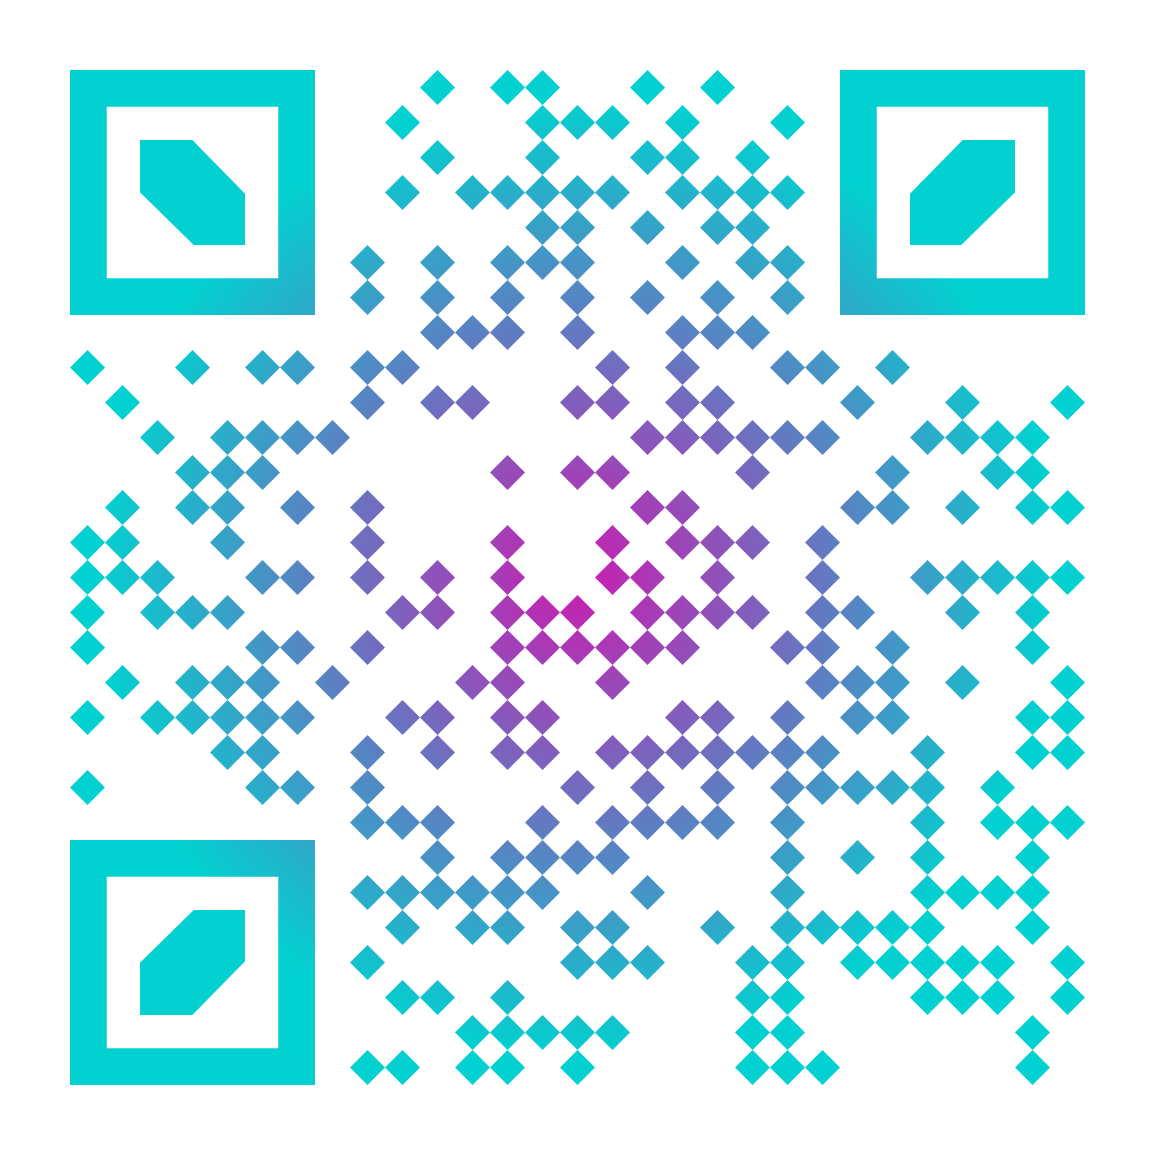
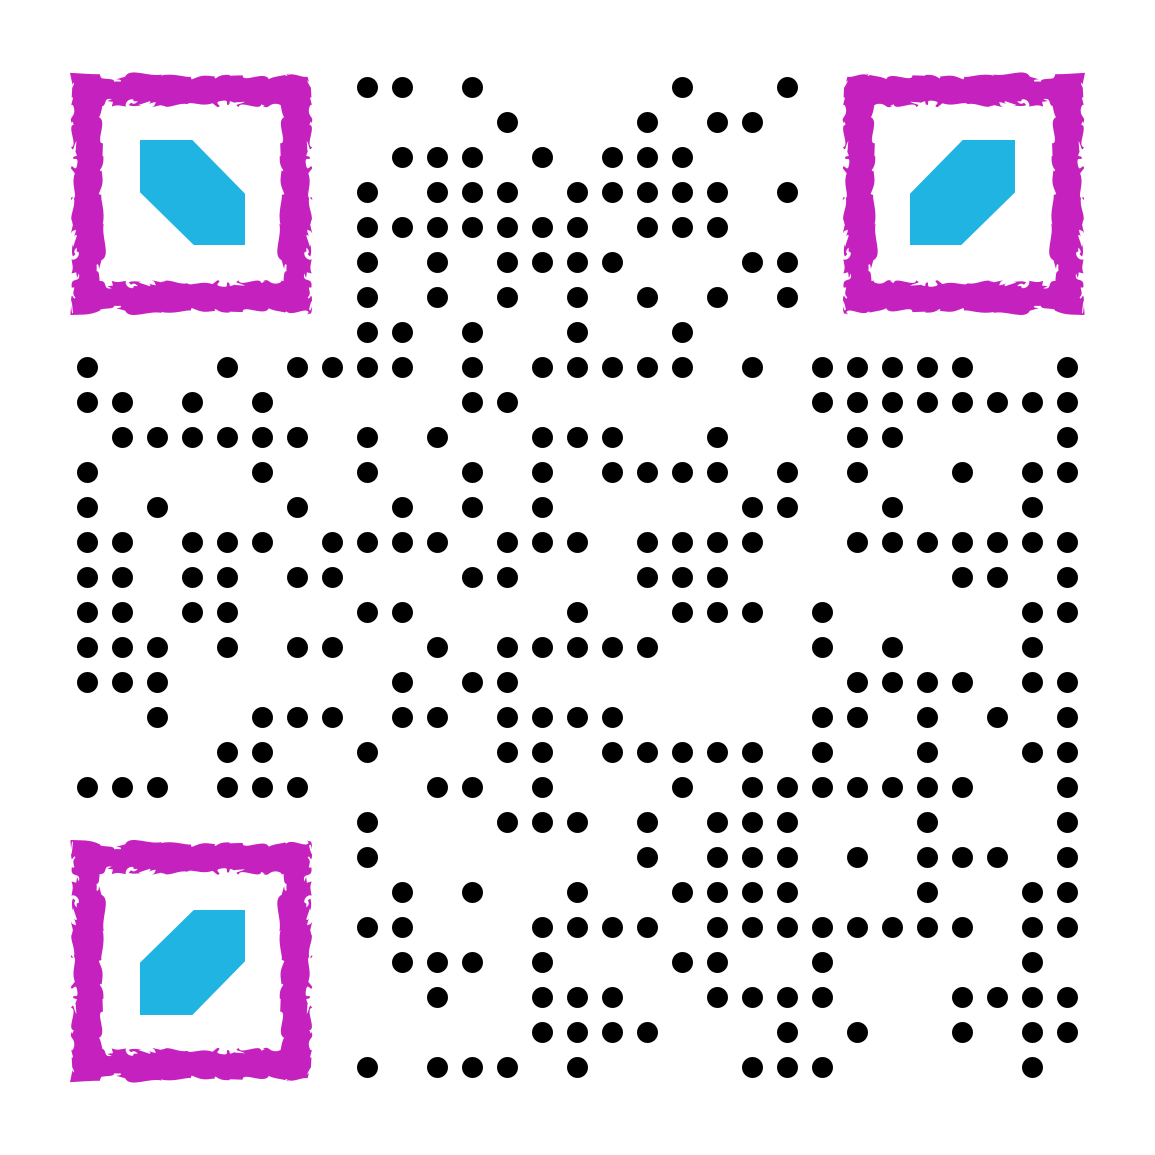
semiotics lectures up

Changed region(s): [[0.0623, 0.0623, 0.9662, 0.9662], [0.0623, 0.0623, 0.2805, 0.2805]]

diff --git a/FS1005_7.html b/FS1005_7.html
@@ -6,7 +6,7 @@
 
 	<title>Food Technology, Culture & Ethics 1</title>
 
-	<meta name="description" content="Protein Fractionation">
+	<meta name="description" content="Semiotics 2">
 	<meta name="author" content="Shane Crowley">
 
 	<meta name="apple-mobile-web-app-capable" content="yes" />
@@ -44,7 +44,7 @@
 		<div class="slides">
 			<section>
 				<section>
-				<h2>Semiotics:<br>Models</h1>
+				<h2>Semiotics:<br>Thinking about Culture Through Models</h1>
 				<h3><i>Dr Shane V Crowley</i></h3>
 				<p><small>Press <b>down</b> for controls and <b>right</b> to progress</small></p>	
 	
@@ -68,12 +68,12 @@
 			<section>
 				<p> Link to <b>video</b> below:
 					<br>
-					<a href="https://youtu.be/vh42SACRsc4">👉<i>https://youtu.be/vh42SACRsc4</i></a>
+					<a href="https://youtu.be/bzDpq8LwMSg">👉<i>https://youtu.be/bzDpq8LwMSg</i></a>
 				</p>
 
 				<img title="Scan me with your phone!" src="img/qr_fs1005_yt7.png" alt="if you don't see a QR code click the link" style="height: 340px; margin: 0 auto 4rem auto; background: transparent;" class="qr_code">
 					<br>
-				<a href="http://edibotopic.github.io/lecture-slides/FS1005_7.html?print-pdf" title="For your added conveniance">Click here for printable version (within reason)👈</a>
+				<!-- <a href="http://edibotopic.github.io/lecture-slides/FS1005_7.html?print-pdf" title="For your added conveniance">Click here for printable version (within reason)👈</a> -->
 			</section>
 
 			<section>
@@ -381,13 +381,13 @@
 				
 				<img data-src="img/presence_absence_paper.png" width="50%" height="50%" style="float: right;">
 
-				<small style="color: yellow;">Link: https://journals.sagepub.com/doi/full/10.1177/0743915618824332</small>
+				<small style="color: yellow;"><a href="https://journals.sagepub.com/doi/full/10.1177/0743915618824332">Link: interesting case of trying to understand the mental models of consumers</small>
 
 			</section>
 				
 				<section>
 					<h3><strong>Conclusion</strong> <br> </h3>
-					<p><i>Next week: Rhetoric</i></p>
+					<p><i>Next week: A simple model of food structure</i></p>
 
 					<a href="mailto:shane.crowley@ucc.ie">shane.crowley@ucc.ie</p>
 					<a href="mailto:shane.crowley@ucc.ie">
@@ -406,7 +406,7 @@
 			Reveal.configure({ pdfSeparateFragments: false });
 			Reveal.initialize({
 				// for gh set controls to true and toggle chalkboard.js to true also
-				controls: false,
+				controls: true,
 				progress: true,
 				history: true,
 				center: true,

diff --git a/FS1005_6.html b/FS1005_6.html
@@ -6,7 +6,7 @@
 
 	<title>Food Technology, Culture & Ethics 1</title>
 
-	<meta name="description" content="Protein Fractionation">
+	<meta name="description" content="Semiotics 1">
 	<meta name="author" content="Shane Crowley">
 
 	<meta name="apple-mobile-web-app-capable" content="yes" />
@@ -68,12 +68,12 @@
 			<section data-background-color="#000000">
 				<p> Link to <b>video</b> below:
 					<br>
-					<a href="https://youtu.be/GAZibmrLX_g">👉<i>https://youtu.be/pslQXeA5Rm8</i></a>
+					<a href="https://youtu.be/Y10JYPXjKrI">👉<i>https://youtu.be/Y10JYPXjKrI</i></a>
 				</p>
 
 				<img title="Scan me with your phone!" src="img/qr_fs1005_yt6.png" alt="if you don't see a QR code click the link" style="height: 340px; margin: 0 auto 4rem auto; background: transparent;" class="qr_code">
 					<br>
-				<a href="http://edibotopic.github.io/lecture-slides/FS1005_6.html?print-pdf" title="For your added conveniance">Click here for printable version (within reason)👈</a>
+				<!-- <a href="http://edibotopic.github.io/lecture-slides/FS1005_6.html?print-pdf" title="For your added conveniance">Click here for printable version (within reason)👈</a> -->
 			</section>
 
 			<section data-auto-animate>
@@ -381,7 +381,7 @@
 
 			<section>
 				<h3><strong>Conclusion</strong> <br> </h3>
-				<p><i>Next week: Models of Semiotic Structures</i></p>
+				<p><i>In Part 2: Models of Semiotic Structures</i></p>
 
 				<a href="mailto:shane.crowley@ucc.ie">shane.crowley@ucc.ie</p>
 				<a href="mailto:shane.crowley@ucc.ie">
@@ -399,7 +399,7 @@
 			Reveal.configure({ pdfSeparateFragments: false });
 			Reveal.initialize({
 				// for gh set controls to true and toggle chalkboard.js to true also
-				controls: false,
+				controls: true,
 				progress: true,
 				history: true,
 				center: true,
@@ -466,7 +466,7 @@
 						title: 'References',
 						icon: '<i class="fa fa-external-link">',
 						content:
-						'<h1>See papers cited/included within slides.</h2>'
+						'<h1>See papers cited/included within slides (clickable links included).</h2>'
 					},
 					{
 						title: 'About',

diff --git a/index.md b/index.md
@@ -22,9 +22,9 @@ Lecture#4: [Epistemology II](http://edibotopic.github.io/lecture-slides/FS1005_4
 
 Lecture#5: [Epistemology III](http://edibotopic.github.io/lecture-slides/FS1005_5.html)
 
-<!-- Lecture#6: [Semiotics I](http://edibotopic.github.io/lecture-slides/FS1005_6.html) -->
+Lecture#6: [Semiotics I](http://edibotopic.github.io/lecture-slides/FS1005_6.html)
 
-<!-- Lecture#7: [Semiotics II](http://edibotopic.github.io/lecture-slides/FS1005_7.html) -->
+Lecture#7: [Semiotics II](http://edibotopic.github.io/lecture-slides/FS1005_7.html)
 
 <!-- Lecture#8: [Rhetoric](http://edibotopic.github.io/lecture-slides/FS1005_8.html) -->
 
